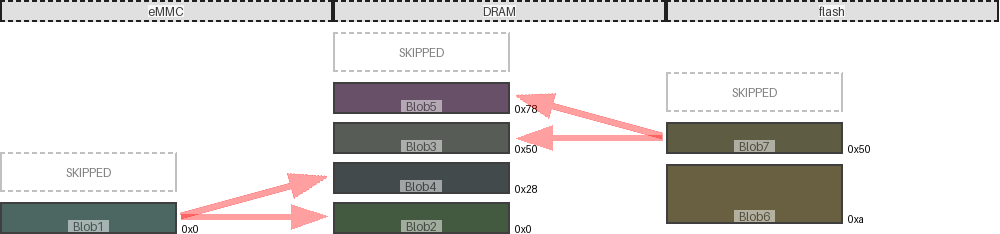
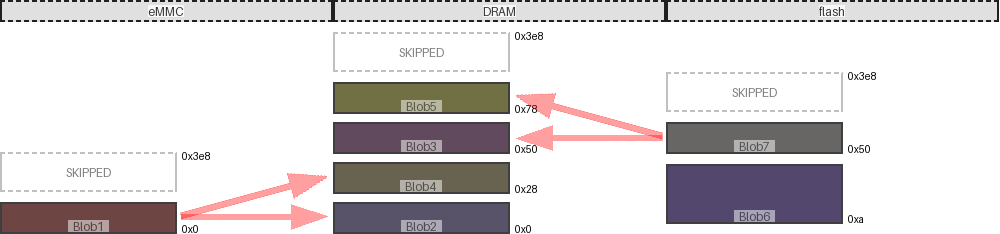
added top address to top most region

diff --git a/mm/diagram.py b/mm/diagram.py
@@ -160,8 +160,8 @@ class MemoryMapDiagram:
         for x in range(0, len(redux_subgroup)):
 
             region: mm.image.MemoryRegionImage
-            for region in redux_subgroup[x]:
-
+            for idx, region in enumerate(redux_subgroup[x]):
+                
                 if isinstance(region, mm.image.MemoryRegionImage):
                     region._draw()
                     # add memory region
@@ -169,7 +169,7 @@ class MemoryMapDiagram:
                         dest=map_img_redux, 
                         xy=mm.image.Point(0, region.origin_as_int - last_void_pos), 
                         alpha=int(Diagram.model.region_alpha))
-                    
+
                     # add origin address text
                     map_img_redux = self._add_label(
                         dest=map_img_redux, 
@@ -184,6 +184,15 @@ class MemoryMapDiagram:
                     # add void region
                     map_img_redux.paste(region.img, (0, next_void_pos))
                     last_void_pos = next_void_pos + region.img.height
+
+        if x == len(redux_subgroup) - 1 and idx == len(redux_subgroup[x]) - 1:
+            map_img_redux = self._add_label(
+                dest=map_img_redux, 
+                xy=mm.image.Point(region.img.width + 5, next_void_pos + region.img.height - 9), 
+                len=1, 
+                text=hex(Diagram.model.height), 
+                font_size=10)
+                                        
 
         # remove any white space at the top of the diagram
         map_img_redux = map_img_redux.crop(

diff --git a/doc/example/test_generate_doc_example_three_maps.md b/doc/example/test_generate_doc_example_three_maps.md
@@ -1,10 +1,10 @@
 ![memory map diagram](test_generate_doc_example_three_maps_redux.png)
 |map|region|origin|size|free Space|collisions|links|
 |:-|:-|:-|:-|:-|:-|:-|
-|DRAM|<span style='color:(55, 24, 54)'>Blob5</span>|0x78|0x20|0x350|||
-|DRAM|<span style='color:(33, 38, 30)'>Blob3</span>|0x50|0x20|0x8|||
-|flash|<span style='color:(43, 38, 7)'>Blob7</span>|0x50|0x20|0x378||('DRAM', 'Blob3')<BR>('DRAM', 'Blob5')|
-|DRAM|<span style='color:(5, 15, 17)'>Blob4</span>|0x28|0x20|0x8|||
-|flash|<span style='color:(54, 44, 3)'>Blob6</span>|0xa|0x3c|0xa|||
-|eMMC|<span style='color:(17, 53, 47)'>Blob1</span>|0x0|0x20|0x3c8||('DRAM', 'Blob2')<BR>('DRAM', 'Blob4')|
-|DRAM|<span style='color:(5, 35, 1)'>Blob2</span>|0x0|0x20|0x8|||
+|DRAM|<span style='color:(67, 65, 6)'>Blob5</span>|0x78|0x20|0x350|||
+|DRAM|<span style='color:(47, 14, 41)'>Blob3</span>|0x50|0x20|0x8|||
+|flash|<span style='color:(54, 52, 49)'>Blob7</span>|0x50|0x20|0x378||('DRAM', 'Blob3')<BR>('DRAM', 'Blob5')|
+|DRAM|<span style='color:(54, 47, 22)'>Blob4</span>|0x28|0x20|0x8|||
+|flash|<span style='color:(26, 11, 63)'>Blob6</span>|0xa|0x3c|0xa|||
+|eMMC|<span style='color:(61, 8, 4)'>Blob1</span>|0x0|0x20|0x3c8||('DRAM', 'Blob2')<BR>('DRAM', 'Blob4')|
+|DRAM|<span style='color:(33, 26, 55)'>Blob2</span>|0x0|0x20|0x8|||

diff --git a/doc/example/test_generate_doc_example_two_maps.md b/doc/example/test_generate_doc_example_two_maps.md
@@ -1,8 +1,8 @@
 ![memory map diagram](test_generate_doc_example_two_maps_redux.png)
 |map|region|origin|size|free Space|collisions|links|
 |:-|:-|:-|:-|:-|:-|:-|
-|eMMC|<span style='color:(40, 32, 53)'>Blob4</span>|0x100|0x10|0x2d8|||
-|DRAM|<span style='color:(59, 18, 15)'>Blob3</span>|0x50|0x10|0x388|||
-|DRAM|<span style='color:(11, 27, 63)'>Blob5</span>|0x30|0x10|0x10|||
-|eMMC|<span style='color:(68, 65, 46)'>Blob1</span>|0x10|0x10|0xe0||('DRAM', 'Blob2')<BR>('DRAM', 'Blob3')|
-|DRAM|<span style='color:(31, 58, 20)'>Blob2</span>|0x10|0x10|0x10|||
+|eMMC|<span style='color:(64, 68, 15)'>Blob4</span>|0x100|0x10|0x2d8|||
+|DRAM|<span style='color:(34, 0, 19)'>Blob3</span>|0x50|0x10|0x388|||
+|DRAM|<span style='color:(66, 43, 17)'>Blob5</span>|0x30|0x10|0x10|||
+|eMMC|<span style='color:(24, 9, 38)'>Blob1</span>|0x10|0x10|0xe0||('DRAM', 'Blob2')<BR>('DRAM', 'Blob3')|
+|DRAM|<span style='color:(48, 11, 36)'>Blob2</span>|0x10|0x10|0x10|||

diff --git a/doc/example/test_generate_doc_example_collisions.md b/doc/example/test_generate_doc_example_collisions.md
@@ -1,6 +1,6 @@
 ![memory map diagram](test_generate_doc_example_collisions_redux.png)
 |map|region|origin|size|free Space|collisions|links|
 |:-|:-|:-|:-|:-|:-|:-|
-|Untitled|<span style='color:(50, 27, 41)'>dtb</span>|0x90|0x30|0x328| rootfs @ 0x90 ||
-|Untitled|<span style='color:(3, 58, 68)'>rootfs</span>|0x50|0x50|-0x10| kernel @ 0x50 <BR> dtb @ 0x90 ||
-|Untitled|<span style='color:(63, 56, 45)'>kernel</span>|0x10|0x60|-0x20| rootfs @ 0x50 ||
+|Untitled|<span style='color:(8, 66, 68)'>dtb</span>|0x90|0x30|0x328| rootfs @ 0x90 ||
+|Untitled|<span style='color:(44, 58, 12)'>rootfs</span>|0x50|0x50|-0x10| kernel @ 0x50 <BR> dtb @ 0x90 ||
+|Untitled|<span style='color:(23, 1, 28)'>kernel</span>|0x10|0x60|-0x20| rootfs @ 0x50 ||

diff --git a/doc/example/test_generate_doc_example_normal.md b/doc/example/test_generate_doc_example_normal.md
@@ -1,6 +1,6 @@
 ![memory map diagram](test_generate_doc_example_normal_redux.png)
 |map|region|origin|size|free Space|collisions|links|
 |:-|:-|:-|:-|:-|:-|:-|
-|Untitled|<span style='color:(17, 35, 38)'>dtb</span>|0x190|0x30|0x228|||
-|Untitled|<span style='color:(18, 23, 8)'>rootfs</span>|0x50|0x30|0x110|||
-|Untitled|<span style='color:(47, 67, 15)'>kernel</span>|0x10|0x30|0x10|||
+|Untitled|<span style='color:(27, 46, 49)'>dtb</span>|0x190|0x30|0x228|||
+|Untitled|<span style='color:(2, 68, 21)'>rootfs</span>|0x50|0x30|0x110|||
+|Untitled|<span style='color:(13, 48, 21)'>kernel</span>|0x10|0x30|0x10|||
